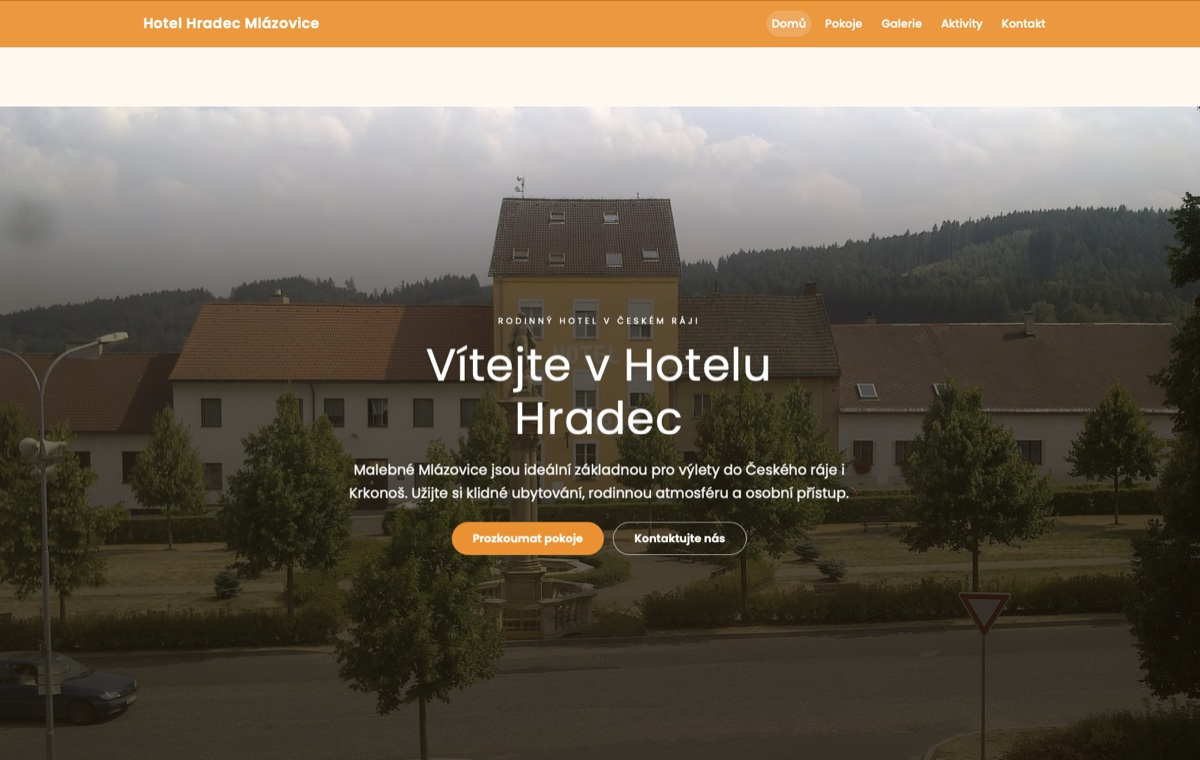
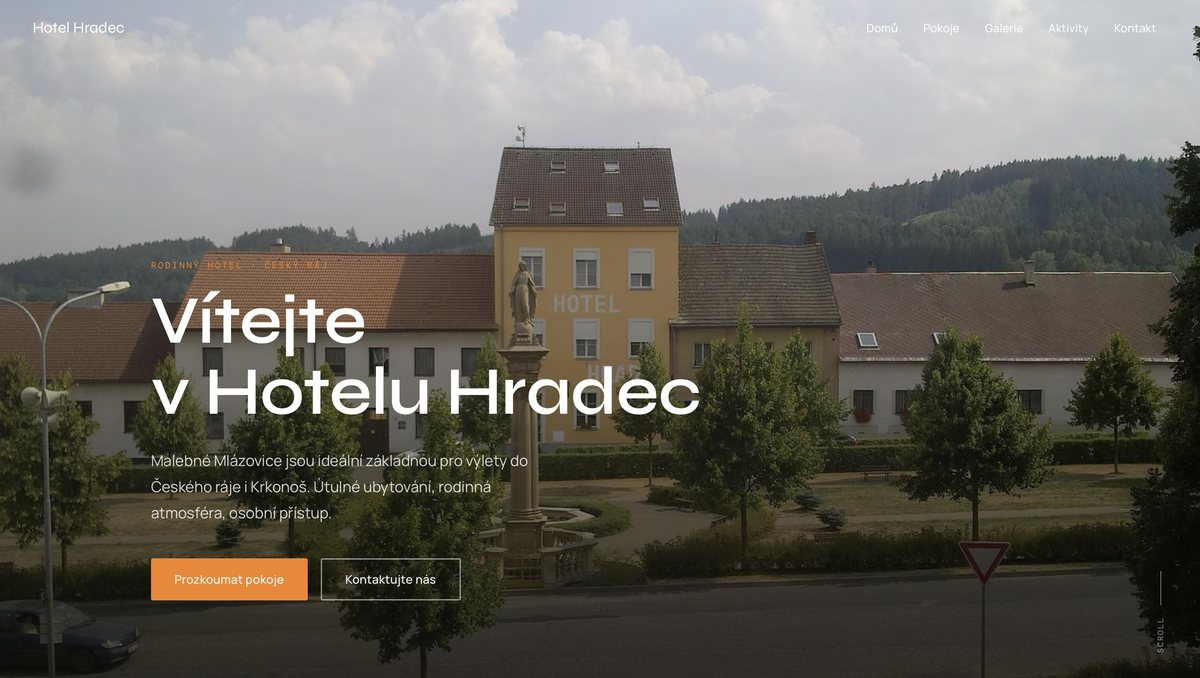
Nový náhled a odkaz realizace Hotel Hradec
Claude-Session: https://claude.ai/code/session_01HGQbSpJAW7ZT12heiCtdtd

diff --git a/index.html b/index.html
@@ -608,7 +608,7 @@
         <div class="showcase rv d2" aria-label="Ukázky realizovaných webů">
           <figure class="frame frame-a">
             <div class="frame-bar" aria-hidden="true"><i></i><i></i><i></i><span>hotelhradec.eu</span></div>
-            <img src="obrazky/hotelhradec.jpg" width="1200" height="760" alt="Web Hotelu Hradec Mlázovice s galerií pokojů a ceníkem" fetchpriority="high">
+            <img src="obrazky/hotelhradec.jpg?v=20261109" width="1200" height="678" alt="Web Hotelu Hradec Mlázovice s galerií pokojů a ceníkem" fetchpriority="high">
           </figure>
           <figure class="frame frame-b">
             <div class="frame-bar" aria-hidden="true"><i></i><i></i><i></i><span>ukoblizku.cz</span></div>
@@ -743,8 +743,8 @@
               <span class="case-arrow" aria-hidden="true"><i class="ph ph-arrow-up-right"></i></span>
             </div>
           </a>
-          <a class="case rv d1" href="https://hotelhradec.eu" target="_blank" rel="noopener">
-            <div class="case-img"><img src="obrazky/hotelhradec.jpg" width="1200" height="760" loading="lazy" alt="Web Hotelu Hradec Mlázovice s galerií pokojů a okolím"></div>
+          <a class="case rv d1" href="https://bekynator14.github.io/Ubytovac--kniha/index.html" target="_blank" rel="noopener">
+            <div class="case-img"><img src="obrazky/hotelhradec.jpg?v=20261109" width="1200" height="678" loading="lazy" alt="Web Hotelu Hradec Mlázovice s galerií pokojů a okolím"></div>
             <div class="case-body">
               <div>
                 <span class="case-meta">2025 · ubytování · firemní web</span>
